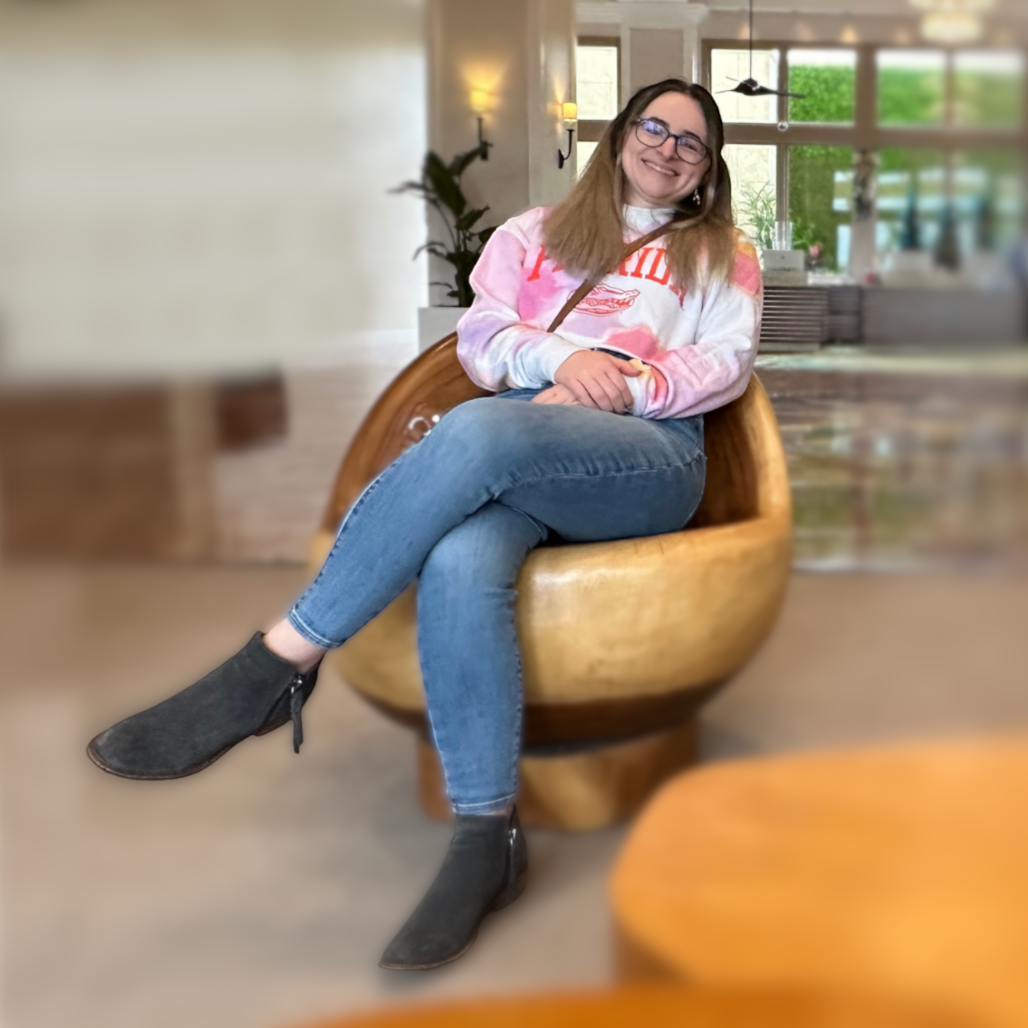
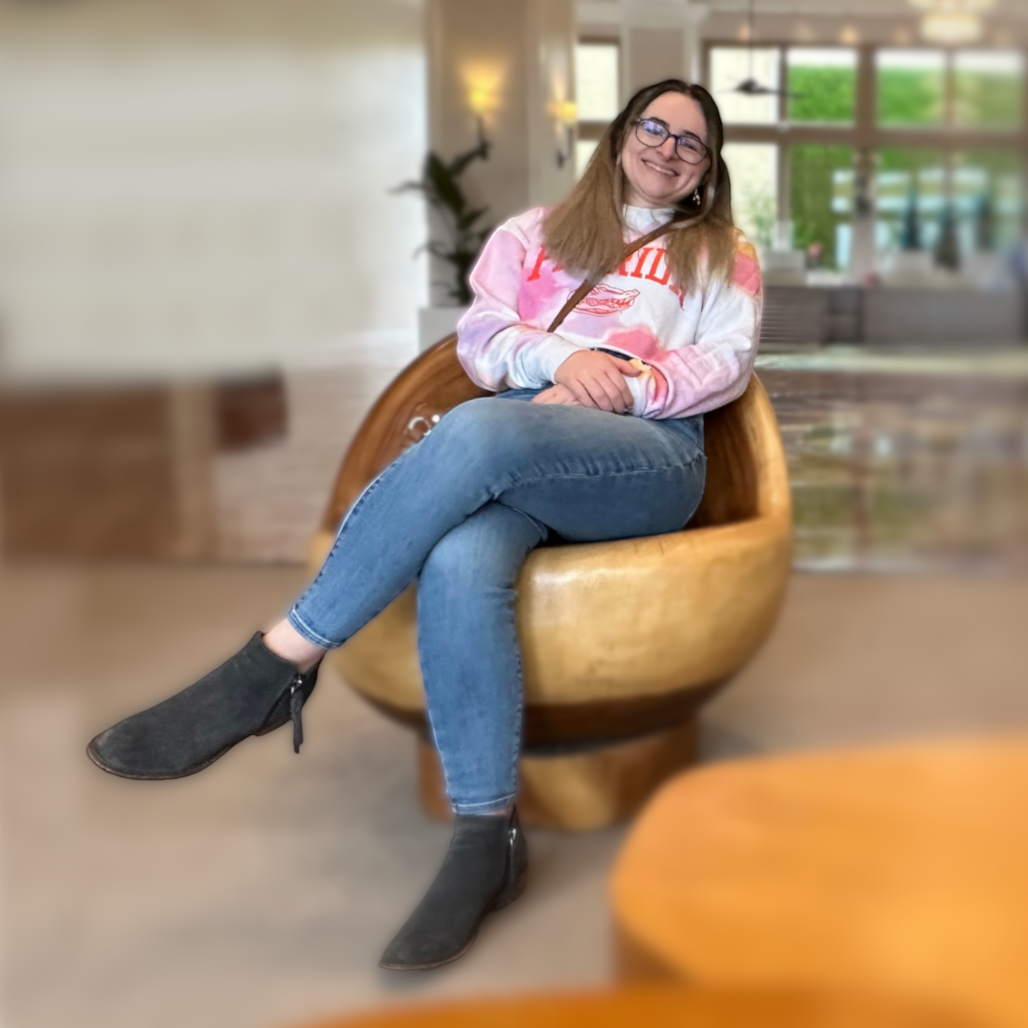
Polish
+Fixed a blur issue with my picture on the About page
+Updated my "About" description and fixed the <strong> format issues
+ImageDescGrid is now left-heavy instead of right-heavy
+Footer with site attributes (wip)

diff --git a/src/views/AboutView.vue b/src/views/AboutView.vue
@@ -9,21 +9,25 @@
       <VerticalFlexBox style="margin: 1.8rem">
         <h3>About.</h3>
         <p>
-          With what started as a Python-coding competition in an AP Physics class, Sadie recognized
-          her enjoyment in coding. Sparked by this interest, she pursued a degree in Computer
-          Science at the University of Florida. Since then, she has been collaborating with a
-          diverse group of people, from machinists and knife makers to a startup focused on
-          harnessing the power of fireflies' bioluminescent chemicals. Meanwhile, continuing her
-          education at the Digital Worlds Institute, she began diving into the beginnings of the
-          virtual reality metaverse. Upon completing her Masters, she has continued to construct
-          these awe-inspiring worlds with Chromatic Games.
+          It all started with a Python-coding competition in an AP Physics class, where Sadie first
+          discovered her love for coding. This spark led her to the University of Florida, where she
+          dove headfirst into a Computer Science degree. But Sadie's journey didn't stop there.
+          She's worked alongside an eclectic mix of professionals—machinists, knife makers, and even
+          a startup obsessed with harnessing the glow of fireflies.
+          <br />
+          Her curiosity pulled her into the Digital Worlds Institute, where she explored the early
+          realms of the virtual reality metaverse. Now, armed with a Master's degree, she's crafting
+          awe-inspiring worlds and experiences with Chromatic Games. Her adoration for game
+          development has flourished in the titles <i>Dungeon Defenders: Going Rogue</i>,
+          <i>Dungeon Defenders: Awakened</i>, and numerous internal projects.
         </p>
         <br />
         <strong>Interests.</strong>
         <p>Knitting, bird watching, books, raising farm animals</p>
         <strong>Favorite Games!</strong>
         <p>
-          Outer Wilds, Bioshock, Moss, Labyrinthine, Phasmophobia, World of Warcraft, Inscryption
+          Outer Wilds, Bioshock, Moss, Labyrinthine, Phasmophobia, World of Warcraft, Inscryption,
+          Baldur's Gate 3
         </p>
       </VerticalFlexBox>
     </div>
@@ -62,5 +66,6 @@ p {
 
 strong {
   margin-inline: 0rem;
+  padding-inline: 0rem;
 }
 </style>

diff --git a/src/views/ArtView.vue b/src/views/ArtView.vue
@@ -30,11 +30,6 @@ const imageData = [
     'Self Portrait [Maya, Substance, & XGen]'
   ],
   [
-    'Porcupine.jpg',
-    'An acrylic painting of a vivid, rainbow porcupine',
-    'A re-interpretation of the "Prehensile-tailed porcupine" by Slaveika Aladjova using bright colors [acrylic]'
-  ],
-  [
     'ThroughTheForest.png',
     "A watercolor painting of a jumping deer with trees painted within the deer's shadows",
     'Through the Forest [watercolor]'
@@ -48,6 +43,11 @@ const imageData = [
     'HumanEye.png',
     'A digital drawing of a single human eye',
     'A human eye. Drawn in digital art course taught by Austin and Jaysen Batchelor [Photoshop]'
+  ],
+  [
+    'Porcupine.jpg',
+    'An acrylic painting of a vivid, rainbow porcupine',
+    'A re-interpretation of the "Prehensile-tailed porcupine" by Slaveika Aladjova using bright colors [acrylic]'
   ]
 ] as [string, string, string][]
 </script>

diff --git a/src/components/common/ImageDescGrid.vue b/src/components/common/ImageDescGrid.vue
@@ -32,10 +32,10 @@ const props = defineProps<{
 }>()
 
 const firstImages = computed<[string, string, string][]>(() =>
-  props.imageData.slice(0, Math.ceil(props.imageData.length / 2))
+  props.imageData.slice(0, Math.ceil(props.imageData.length / 2) + 1)
 )
 const secondImages = computed<[string, string, string][]>(() =>
-  props.imageData.slice(Math.ceil(props.imageData.length / 2))
+  props.imageData.slice(Math.ceil(props.imageData.length / 2) + 1)
 )
 </script>
 

diff --git a/src/App.vue b/src/App.vue
@@ -1,11 +1,17 @@
 <script setup lang="ts">
 import { RouterView } from 'vue-router'
 import NavigationBar from '@components/NavigationBar.vue'
+import FooterBar from '@components/FooterBar.vue'
 </script>
 
 <template>
   <header style="z-index: 1">
     <NavigationBar />
   </header>
-  <RouterView />
+  <body>
+    <RouterView />
+    <footer>
+      <FooterBar />
+    </footer>
+  </body>
 </template>

diff --git a/src/components/FooterBar.vue b/src/components/FooterBar.vue
@@ -1,0 +1,20 @@
+<template>
+  <div class="center-wrapper footer">
+    <p>
+      sadie.crawford.work@gmail.com | (727) 412-4833
+      <br />
+      <i>Website created by me.</i>
+    </p>
+  </div>
+</template>
+
+<style scoped>
+.footer {
+  margin-bottom: 1.8rem;
+}
+
+p {
+  text-align: center;
+  opacity: 0.5;
+}
+</style>
